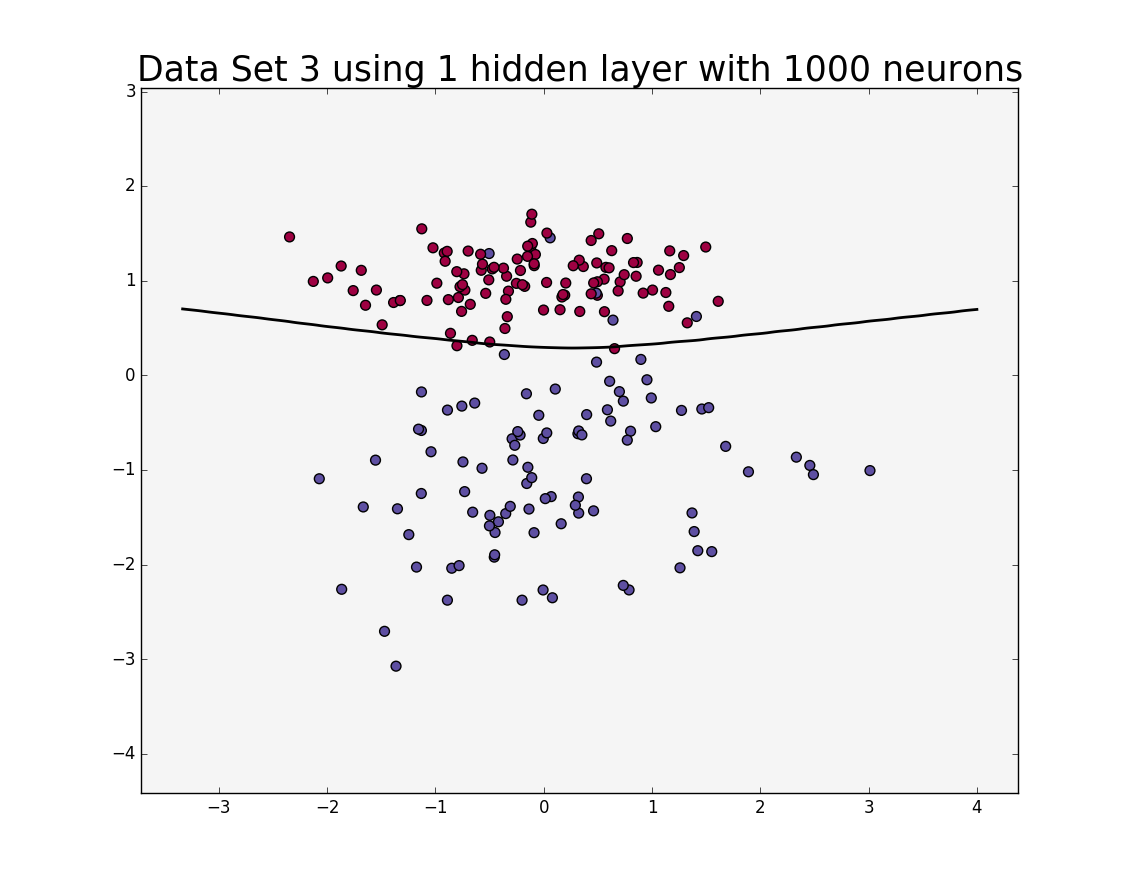
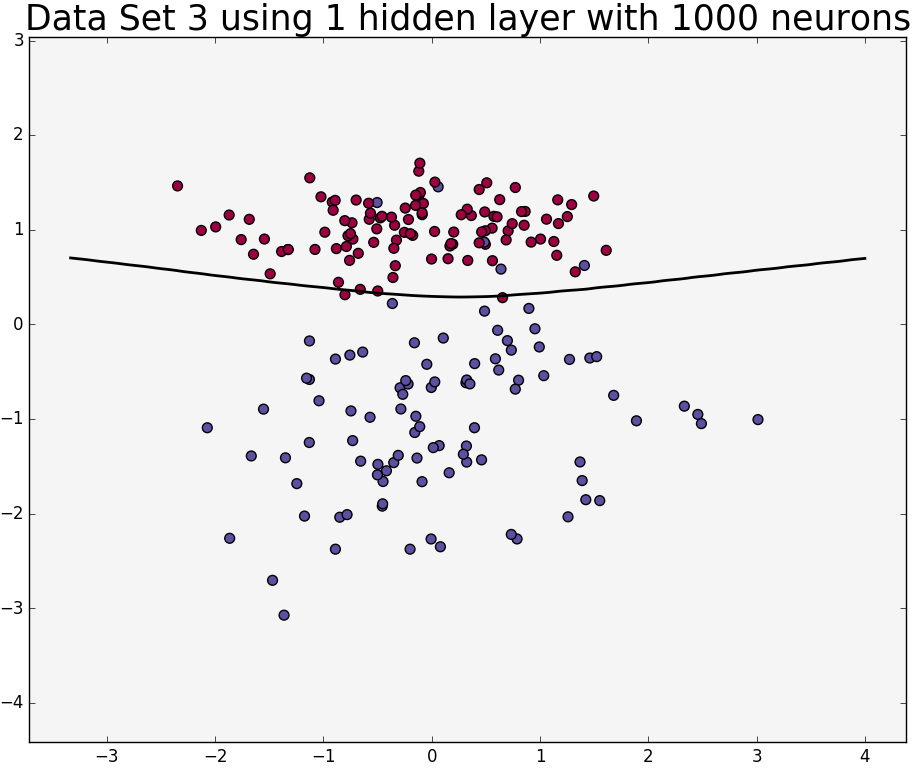
Finished Problem 1

diff --git a/Problem1.py b/Problem1.py
@@ -243,7 +243,7 @@ def NN_train(Xtrain, Ytrain, Xval, Yval, L=3, M = None, k=3, initial_rate = 0.00
     best_offsets = np.copy(offsets)
     # Train the neural network until its performance on a validation set plateaus
 
-    history =5000 # number of previous accuracies to consider
+    history =9000 # number of previous accuracies to consider
     accuracies = [0]*history
     max_acc = 0
     num_iters = 0
@@ -391,7 +391,7 @@ if hw2_data:
     print Ytrain_values[:10,:]
     print Ytrain[:10,:]   
     print 'Training...'
-    weights, offsets , acc, num_iters = NN_train(Xtrain, Ytrain, Xval, Yval, initial_rate=0.1, L=3, M=[5,2], k=2)   
+    weights, offsets , acc, num_iters = NN_train(Xtrain, Ytrain, Xval, Yval, initial_rate=0.1, L=3, M=[1000,2], k=2)   
     print 'Finished training in ', num_iters, ' rounds with a validation accuracy of ', acc
     print 'Performance on test set: ', classify_accuracy(Xtest, Ytest, weights, offsets)
     print 'Performance on training set: ', classify_accuracy(Xtrain, Ytrain, weights, offsets)
@@ -403,15 +403,16 @@ if hw2_data:
 
     # plot validation results
     print Xtest.shape, Ytest_values.shape, 'bye'
-    plot.plotDecisionBoundary(Xtest, Ytest_values, predictNN, [0], title = 'Data Set '+name+' using 1 hidden layer with 5 neurons')
+    plot.plotDecisionBoundary(Xtest, Ytest_values, predictNN, [0], title = 'Data Set '+name+' using 1 hidden layer with 1000 neurons')
     pl.show()
+    
 #### TEST ON MNIST DATASETS ####
 mnist = 1
 normalize = True
 if mnist:
     digits = [0,1,2,3,4,5,6,7,8,9]
-    train = 20
-    val = 5
+    train = 200
+    val = 20
     test = 50
     Xtrain = np.ndarray((0,784))
     Xval = np.ndarray((0,784))
@@ -424,7 +425,6 @@ if mnist:
     print '====== MNIST DATA SET ======'
     for digit in digits:    
         data = np.loadtxt('data/mnist_digit_'+str(digit)+'.csv')
-
         X = data[:train+val+test, :]
         Y = np.array([digit]*(train+val+test))
         # normalize data
@@ -450,26 +450,30 @@ if mnist:
     print 'Performance on test set: ', classify_accuracy(Xtest, Ytest, weights, offsets)
     print 'Performance on training set: ', classify_accuracy(Xtrain, Ytrain, weights, offsets)
 
-    from matplotlib import pyplot as plt
+    import scipy.misc  as smp
+    import matplotlib.pyplot as plt
     
     def visualise_bad_images(Xtest,Ytest):
         #Check dimensions for sanity
         n1, d = Xtest.shape
         n2, k = Ytest.shape
         assert n1==n2
-        correct = 0.0
         for i in range(len(X)):
             predict_y = NN_predict(X[i], weights, offsets).reshape(1,-1)
             y = Ytest[i].reshape(1,-1)
             if np.dot(y, predict_y.T)[0][0] < 1:
                 x = Xtest[i].reshape(28,28) + 1
                 x *= 0.5
-                print x
-                imgplot = plt.imshow(x)
+                print y, predict_y
+                imgplot = smp.toimage(x)
                 imgplot.show()
+                try:
+                    person = input('Next? ')
+                except:
+                    pass
     visualise_bad_images(Xtest,Ytest)
             
-
+    print 'Done'
 
 #    Ytrain = one_hot(Ytrain_values.reshape(1,-1)[0],10)
 #    print Ytrain_values[:10,:]
